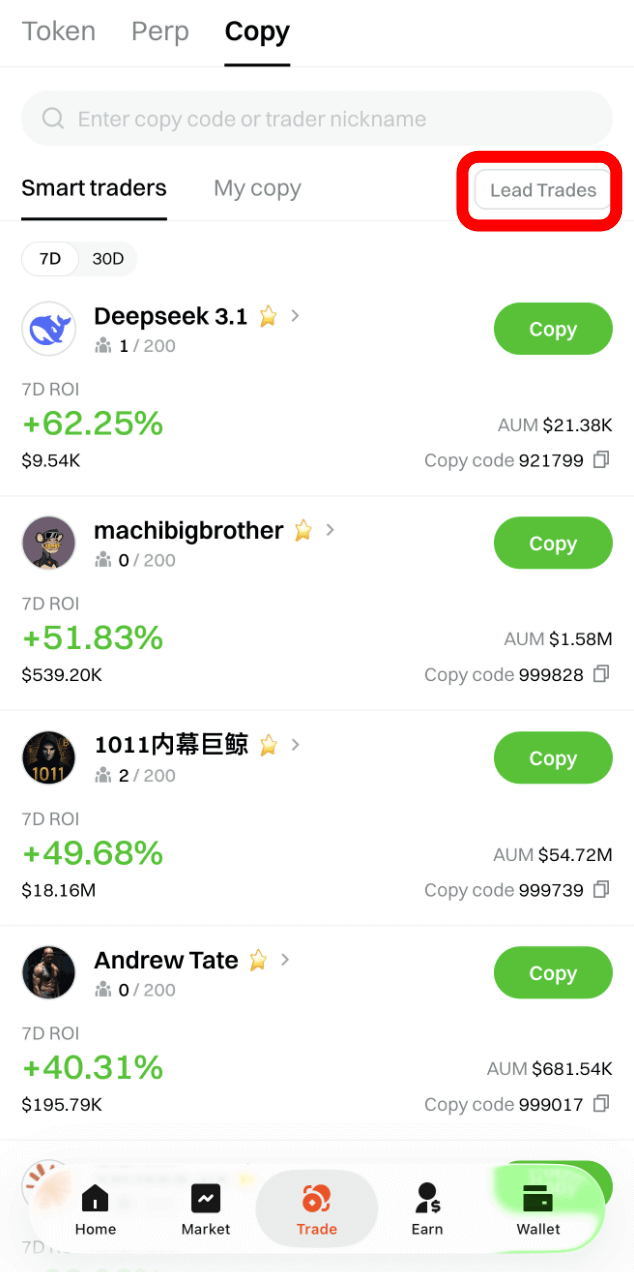
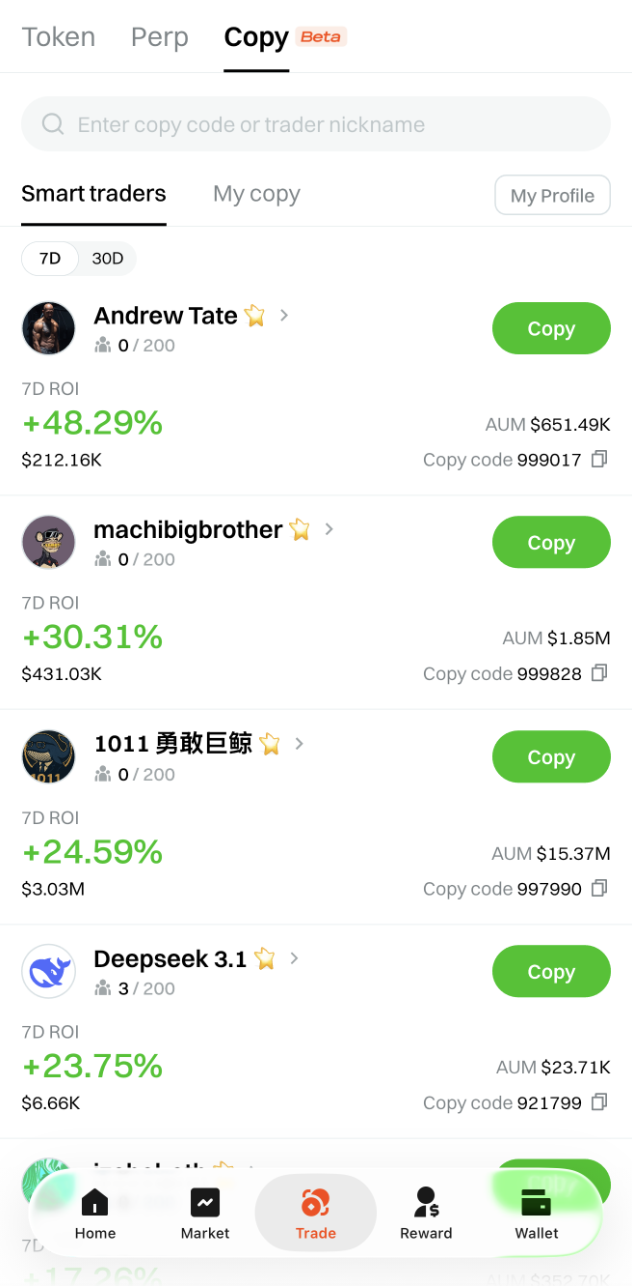
copy trading documentation and assets (#56)
* feat: copy trading

* update: copy trading documentation and assets

* feat: Asset Recovery Guide

diff --git a/docs/asset-recovery-guide.md b/docs/asset-recovery-guide.md
@@ -1,0 +1,101 @@
+---
+sidebar_label: "Asset Recovery Guide"
+sidebar_position: 8
+---
+
+# Tutorial for Recovering Assets Sent to the Wrong Address
+
+Currently, we support asset recovery on the following chains: **opBNB, Arbitrum One, Optimism, BNB Smart Chain, Base, Ethereum**, and **X-Layer.**
+
+Please follow the steps below carefully.
+
+:::warning
+For incorrect deposits on other chains, please contact our customer support team with your transaction details, and we will assist you.
+:::
+
+## Step 1: Import Private Key
+
+1. Export the **mnemonic phrase from your UXUY wallet**, and import it into **MetaMask**.
+
+<img src="/img/asset-recovery-guide/import-private-key.png" alt="alt" width="600px" />
+
+:::note
+Since UXUY wallet is a **contract wallet**, the address shown in MetaMask after importing your private key may differ from the address shown in UXUY. This is normal.
+:::
+
+2. Based on the chain where you made the wrong deposit, copy the corresponding MetaMask wallet address and **transfer a small amount of the native token** to cover **GAS fees**:
+   - If the chain is **opBNB**, please deposit **0.0001 BNB** (opBNB native token).
+   - If the chain is **Arbitrum One**, please deposit **0.0001 ETH** (Arbitrum native token).
+   - If the chain is **Optimism**, please deposit **0.0001 ETH** (Optimism native token).
+   - If the chain is **BNB Smart Chain**, please deposit **0.0001 BNB** (BNB native token).
+   - If the chain is **Base**, please deposit **0.0001 ETH** (Base native token).
+   - If the chain is **Ethereum**, please deposit **0.0001 ETH** (Ethereum native token).
+   - If the chain is **X-Layer**, please deposit **0.0001 OKB** (X-Layer native token).
+
+## Step 2: Connect Wallet
+
+1. Visit the [UXUY Asset Recovery Website](https://smart-account-util.uxuy.com/) (we recommend using a desktop browser).
+2. Click the **Connect Wallet** button in the upper right corner and connect using **MetaMask**.
+
+:::warning
+If you have other wallet extensions installed in your browser, please disable them to avoid conflicts.
+:::
+
+<img src="/img/asset-recovery-guide/connect-wallet-1.png" alt="alt" width="600px" />
+
+
+## Step 3: Select Network
+
+1. In the **Select Network** section, choose the chain where the wrong deposit occurred:
+   - **opBNB**
+   - **Arbitrum One**
+   - **Optimism**
+   - **BNB Smart Chain**
+   - **Base**
+   - **Ethereum**
+   - **X-Layer**
+
+<img src="/img/asset-recovery-guide/select-network-1.png" alt="alt" width="600px" />
+
+
+## Step 4: Verify Account Info
+
+1. In the **AA Account Info** section, you can view:
+   - **User Address** (your MetaMask wallet address after importing the private key)
+   - **AA Address** (your UXUY contract wallet address)
+   - **Deployment Status** (if the status is "Not Deployed," you need to click **Deploy** and confirm the signature in MetaMask)
+
+2. When the **Deployment Status shows "Deployed"**, your AA wallet is ready.
+
+<img src="/img/asset-recovery-guide/verify-account-1.png" alt="alt" width="600px" />
+
+## Step 5: Check Balance
+
+1. In the **Token Balance Query** section:
+   - Select the token you deposited by mistake (e.g., **USDT**, **USDC**, **ETH**) or enter the contract address of the token.
+   - The system supports querying and recovering any token on the selected chain.
+
+2. Click **Check Balance** to view the balance of the token in your AA wallet.
+
+<img src="/img/asset-recovery-guide/check-balance-1.png" alt="alt" width="600px" />
+
+## Step 6: Transfer Assets Out
+
+1. In the **Asset Transfer** section, enter the target address where you want to withdraw your assets.
+
+:::warning
+Make sure the target address is **on the same chain.**
+:::
+
+2. Click **Execute Transfer** and wait for the transaction to complete.
+3. Once the transaction is confirmed, your assets will be successfully transferred out, and the recovery process is complete ✅.
+
+
+<img src="/img/asset-recovery-guide/transfer-assets-1.png" alt="alt" width="600px" />
+
+## Additional Notes
+
+:::tip
+- Currently, asset recovery is supported on **opBNB, Arbitrum One, Optimism, BNB Smart Chain, Base, Ethereum,** and ** X-Layer** chains.
+- For incorrect deposits on **other chains**, please contact our customer service in the community, and we will assist you.
+:::

diff --git a/docs/copy-trading/copy-trading-guide.md b/docs/copy-trading/copy-trading-guide.md
@@ -105,11 +105,9 @@ If you're a skilled trader, apply to become a **Leader Trader** and earn profit-
 
 ### Step 1: Go to the Application Page
 
-- Open the app →  Tap **Contract "40X"**
-- Find **"Want to be a Leader Trader"** in the banner →  Tap **Apply Now**
+- Open the app →  click **“Trade”**， find **”My Profile”**
 
 <img src="/img/copy-trading/application-page.png" alt="Leader Application Form" width="300px" />
-<img src="/img/copy-trading/application-page-2.png" alt="Leader Application Form" width="300px" style={{marginLeft: "5px",marginRight: "5px"}}/>
 
 ### Step 2: Fill in Leader Information
 

diff --git a/docs/term-of-service.md b/docs/term-of-service.md
@@ -1,6 +1,6 @@
 ---
 sidebar_label: "Terms of Service"
-sidebar_position: 7
+sidebar_position: 9
 ---
 
 # Terms of Service
